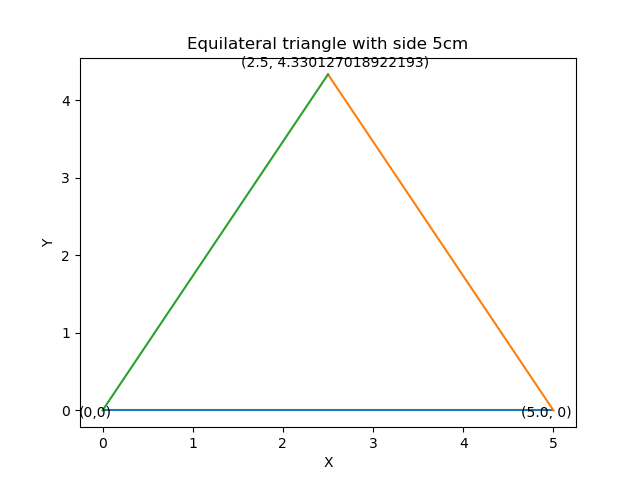
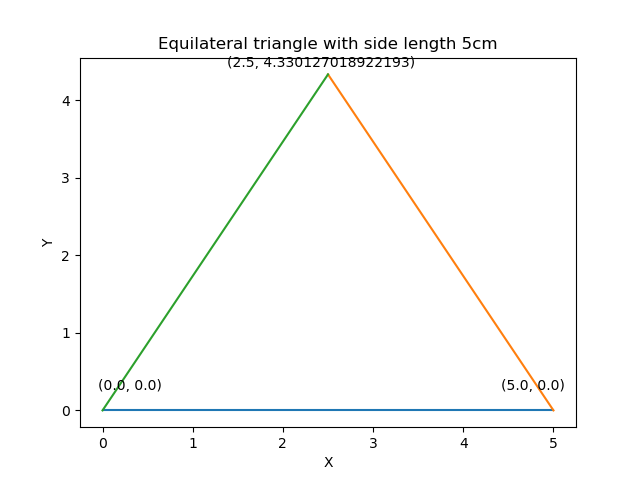
q9-changes

diff --git a/mat-geo-ques/q9/codes/plot.py b/mat-geo-ques/q9/codes/plot.py
@@ -1,54 +1,56 @@
 import ctypes
 import numpy as np
 import matplotlib.pyplot as plt
-class point (ctypes.Structure) :
+
+class Point(ctypes.Structure):
     _fields_ = [("x", ctypes.c_double),
-                ("y", ctypes.c_double)
-                ]
-    x = 0
-    y = 0
-class triangle (ctypes.Structure) :
-    _fields_ = [("vertex1", ctypes.Structure),
-                ("vertex2", ctypes.Structure),
-                ("vertex3", ctypes.Structure),
+                ("y", ctypes.c_double)]
+
+class Triangle(ctypes.Structure):
+    _fields_ = [("length", ctypes.c_double),
+                ("vertex1", Point),
+                ("vertex2", Point),
+                ("vertex3", Point),
                 ("num_points", ctypes.c_int),
-                ("length", ctypes.c_int),
-                ("sides", ctypes.POINTER(ctypes.POINTER(ctypes.Structure)))
-            ]
-    vertex1.x = 0
-    vertex1.y = 0
-    vertex2.x = length
-    vertex.y = 0
-    sides = ctypes.Structure * (3 * num_points)()
+                ("sides", ctypes.POINTER(ctypes.POINTER(Point)))]
 
-
-to_draw = triangle()
 gen = ctypes.CDLL('./generate.so')
-gen.get_vertex.argtypes = [ctypes.Structure, ctypes.Structure]
-gen.get_vertex.restype = ctypes.POINTER(ctypes.Structure)
-gen.generate_triangle.argtypes = [ctypes.c_double, ctypes.c_int, ctypes.POINTER(ctypes.Structure * (3 * num_points))()]
+gen.get_vertex.argtypes = [Point, Point]
+gen.get_vertex.restype = ctypes.POINTER(Point)
+gen.generate_triangle.argtypes = [ctypes.POINTER(Triangle)]
 gen.generate_triangle.restype = None
 
-# Input length and num_points
 num_points = 1000
 length = 5.0
+
+to_draw = Triangle()
 to_draw.length = length
-# you can also change vertex1 and vertex2 to change th eorientation of the triangle
-gen.get_vertex(ctypes.byref(to_draw.vertex1), ctypes.byref(to_draw.vertex2))
+to_draw.num_points = num_points
+to_draw.vertex1 = Point(0.0, 0.0)
+to_draw.vertex2 = Point(length, 0.0)
+vertex_ptr = gen.get_vertex(to_draw.vertex1, to_draw.vertex2)
+to_draw.vertex3 = vertex_ptr.contents
+
+sides_array_type = ctypes.POINTER(Point) * 3
+to_draw.sides = sides_array_type()
+
 gen.generate_triangle(ctypes.byref(to_draw))
+
+points_np = np.zeros((3, num_points), dtype=[('x', np.float64), ('y', np.float64)])
+for i in range(3):
+    for j in range(num_points):
+        points_np[i][j] = (to_draw.sides[i][j].x, to_draw.sides[i][j].y)
 
 fig = plt.figure()
 ax = plt.gca()
-points_np = np.array(to_draw.sides).reshape((3, num_points)) 
-plt.plot(points_np[0, :].x, points_np[0, :, 1].y)
-plt.plot(points_np[1, :].x, points_np[1, :].y)
-plt.plot(points_np[2, :].x, points_np[2, :].y)
-plt.annotate(f"({to_draw.vertex1.x}, {to_draw.vertex1.y})", (to_draw.vertex1.x, to_draw.vertex1.y), textcoords="offset points", xytext=(-5, -5), ha="center")
-plt.annotate(f"({to_draw.vertex2.x}, {to_draw.vertex2.y})", (to_draw.vertex2.x, to_draw.vertex2.y), textcoords="offset points", xytext=(-5, -5), ha="center")
-plt.annotate(f"({to_draw.vertex3.x}, {to_draw.vertex3.y})", (to_draw.vertex3.x, to_draw.vertex3.y), textcoords="offset points", xytext=(-5, -5), ha="center")
+for i in range(3):
+    ax.plot(points_np[i]['x'], points_np[i]['y'])
+ax.annotate(f"({to_draw.vertex1.x}, {to_draw.vertex1.y})", (to_draw.vertex1.x, to_draw.vertex1.y), textcoords="offset points", xytext=(20, 15), ha="center")
+ax.annotate(f"({to_draw.vertex2.x}, {to_draw.vertex2.y})", (to_draw.vertex2.x, to_draw.vertex2.y), textcoords="offset points", xytext=(-15, 15), ha="center")
+ax.annotate(f"({to_draw.vertex3.x}, {to_draw.vertex3.y})", (to_draw.vertex3.x, to_draw.vertex3.y), textcoords="offset points", xytext=(-5, 5), ha="center")
 ax.set_xlabel('X')
 ax.set_ylabel('Y')
-ax.set_title('Equilateral triangle with side 5cm')
+ax.set_title('Equilateral triangle with side length 5cm')
 plt.savefig('../figs/fig.png')
 plt.show()
 

diff --git a/mat-geo-ques/q9/codes/generate.c b/mat-geo-ques/q9/codes/generate.c
@@ -1,27 +1,29 @@
 #include <stdio.h>
 #include <stdlib.h>
 #include <math.h>
+
 struct point {
-	double x;
-	double y;
+    double x;
+    double y;
 };
+
 struct triangle {
-	double len;
-	struct point vertex1;
-	struct point vertex2;
-	struct point vertex3;
-	int num_points;
-	struct point **sides;
+    double length;
+    struct point vertex1;
+    struct point vertex2;
+    struct point vertex3;
+    int num_points;
+    struct point **sides;
 };
 struct point *get_vertex(struct point point1, struct point point2) {
+    struct point *vertex = malloc(sizeof(struct point));
+    double vec_x = point2.x - point1.x;
+    double vec_y = point2.y - point1.y;
     
-	double vec_x = point2.x - point1.x;
-	double vec_y = point2.y - point1.y;
-	double cos_val = sqrt(3) / 2;
-	double sin_val = 0.5;
-        struct point *vertex ;
-	vertex -> x = cos_val * vec_x - sin_val * vec_y;  vertex -> y = (-1) * (cos_val) * vec_y + sin_val * vec_x;
-	return vertex;
+    vertex->x = point1.x + (vec_x / 2) - (sqrt(3) * vec_y / 2);
+    vertex->y = point1.y + (sqrt(3) * vec_x / 2) + (vec_y / 2);
+    
+    return vertex;
 }
 struct point *generate_line_points(struct point point1, struct point point2, int num_points) {
     double dx = point2.x - point1.x;
@@ -34,14 +36,22 @@ struct point *generate_line_points(struct point point1, struct point point2, int
     }
     return sides;
 }
-void generate_triangle(struct triangle to_draw) {
-    struct point *sides = (struct point*) malloc(3 * to_draw.num_points * sizeof(struct point));
-    to_draw.sides[0] = generate_line_points(to_draw.vertex1, to_draw.vertex2, to_draw.num_points);
-    to_draw.vertex3 = *get_vertex(to_draw.vertex1, to_draw.vertex2);
-    to_draw.sides[1] = generate_line_points(to_draw.vertex3, to_draw.vertex2, to_draw.num_points);
-    to_draw.sides[1] = generate_line_points(to_draw.vertex3, to_draw.vertex2, to_draw.num_points);
 
+void generate_triangle(struct triangle *to_draw) {
+    to_draw->sides = (struct point**) malloc(3 * sizeof(struct point*));
+    to_draw->sides[0] = generate_line_points(to_draw->vertex1, to_draw->vertex2, to_draw->num_points);
+    
+    // Vertex 3 calculated here
+    to_draw->vertex3 = *get_vertex(to_draw->vertex1, to_draw->vertex2);
+    
+    to_draw->sides[1] = generate_line_points(to_draw->vertex2, to_draw->vertex3, to_draw->num_points);
+    to_draw->sides[2] = generate_line_points(to_draw->vertex1, to_draw->vertex3, to_draw->num_points);
 }
-void free_triangle(struct triangle to_draw){
-	free(to_draw.sides);
+
+void free_triangle(struct triangle *to_draw){
+    for (int i = 0; i < 3; i++) {
+        free(to_draw->sides[i]);
+    }
+    free(to_draw->sides);
 }
+
